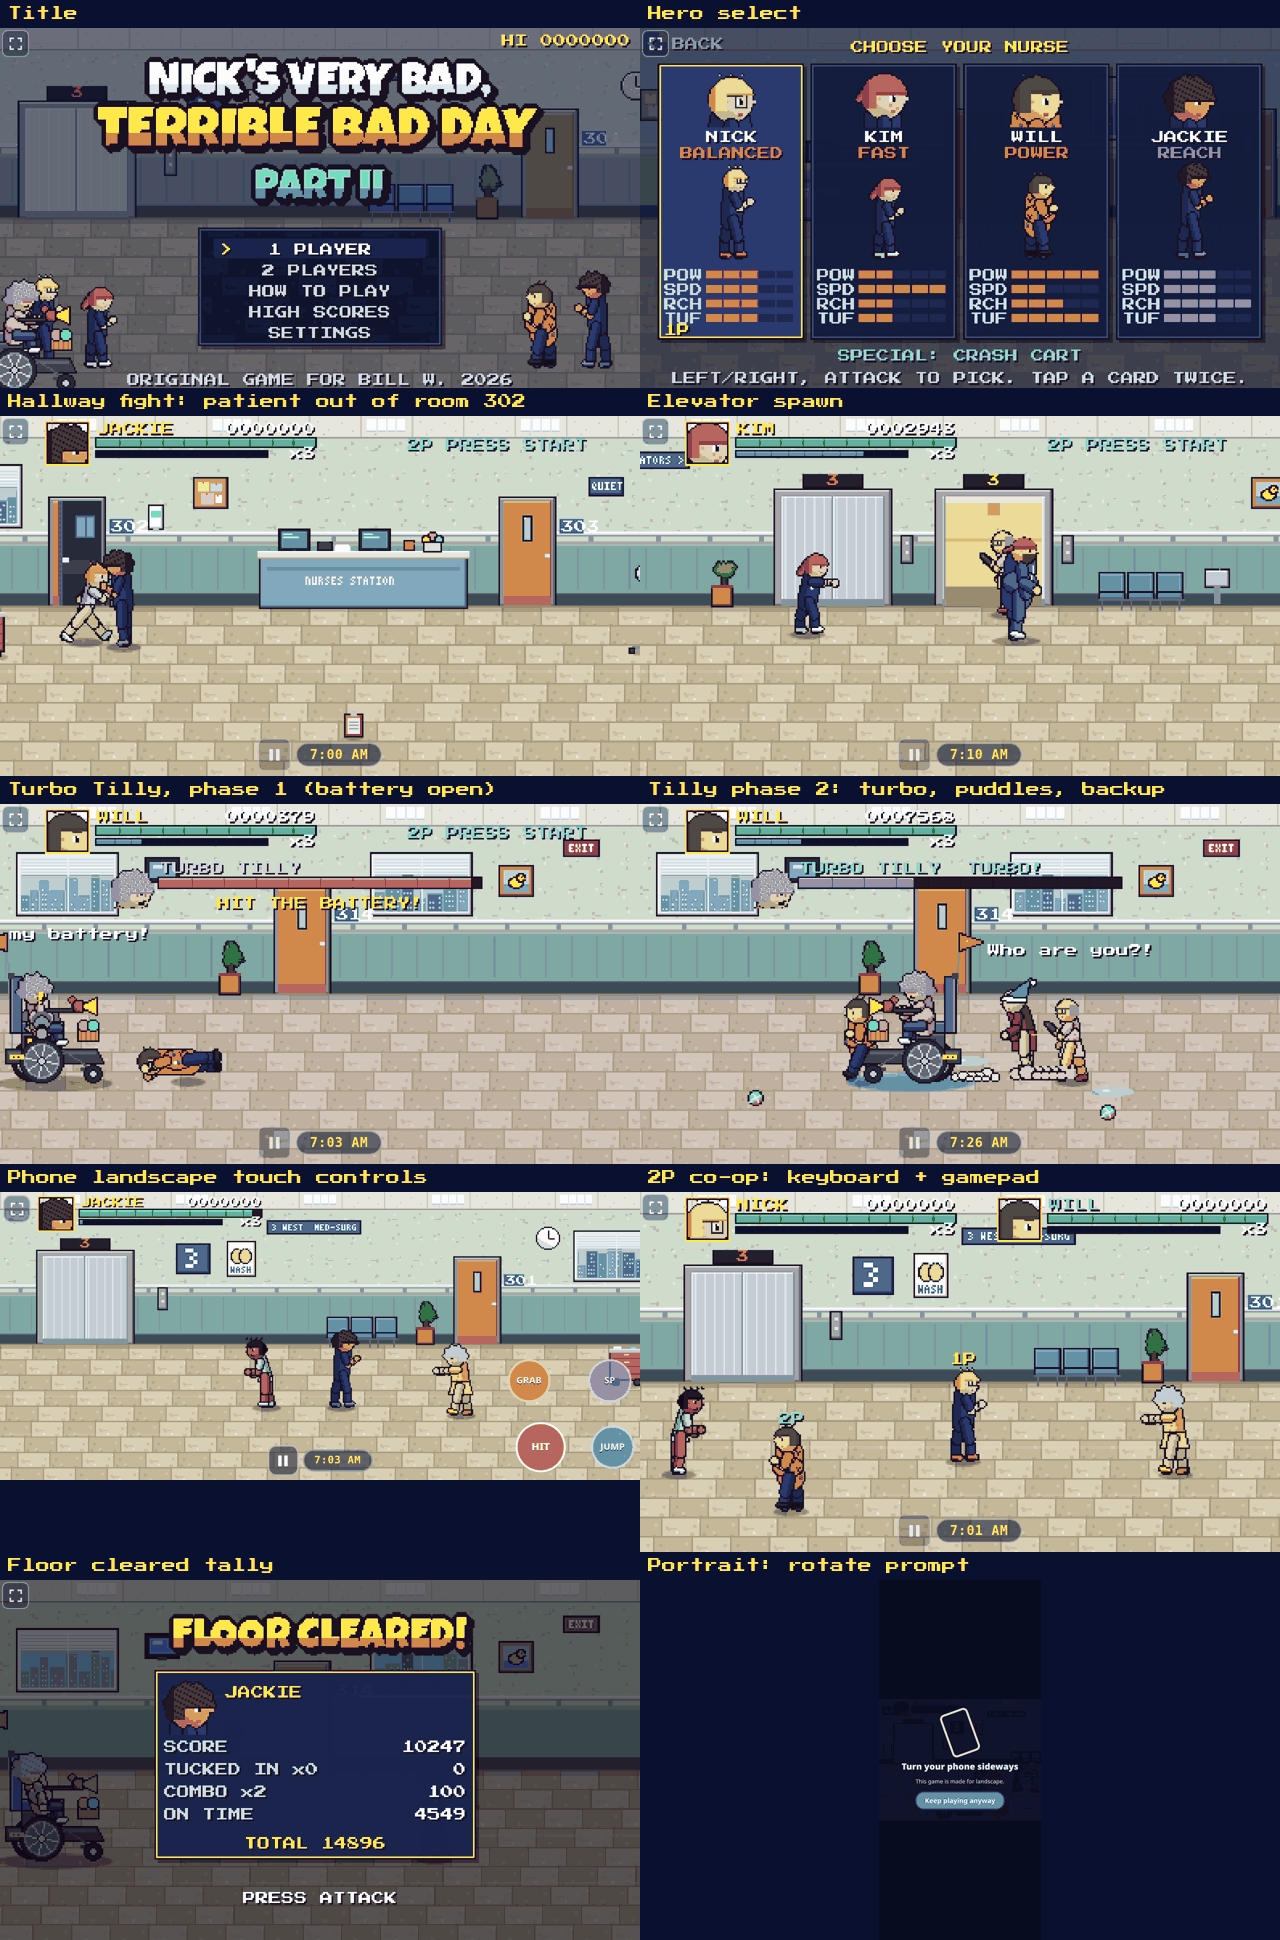
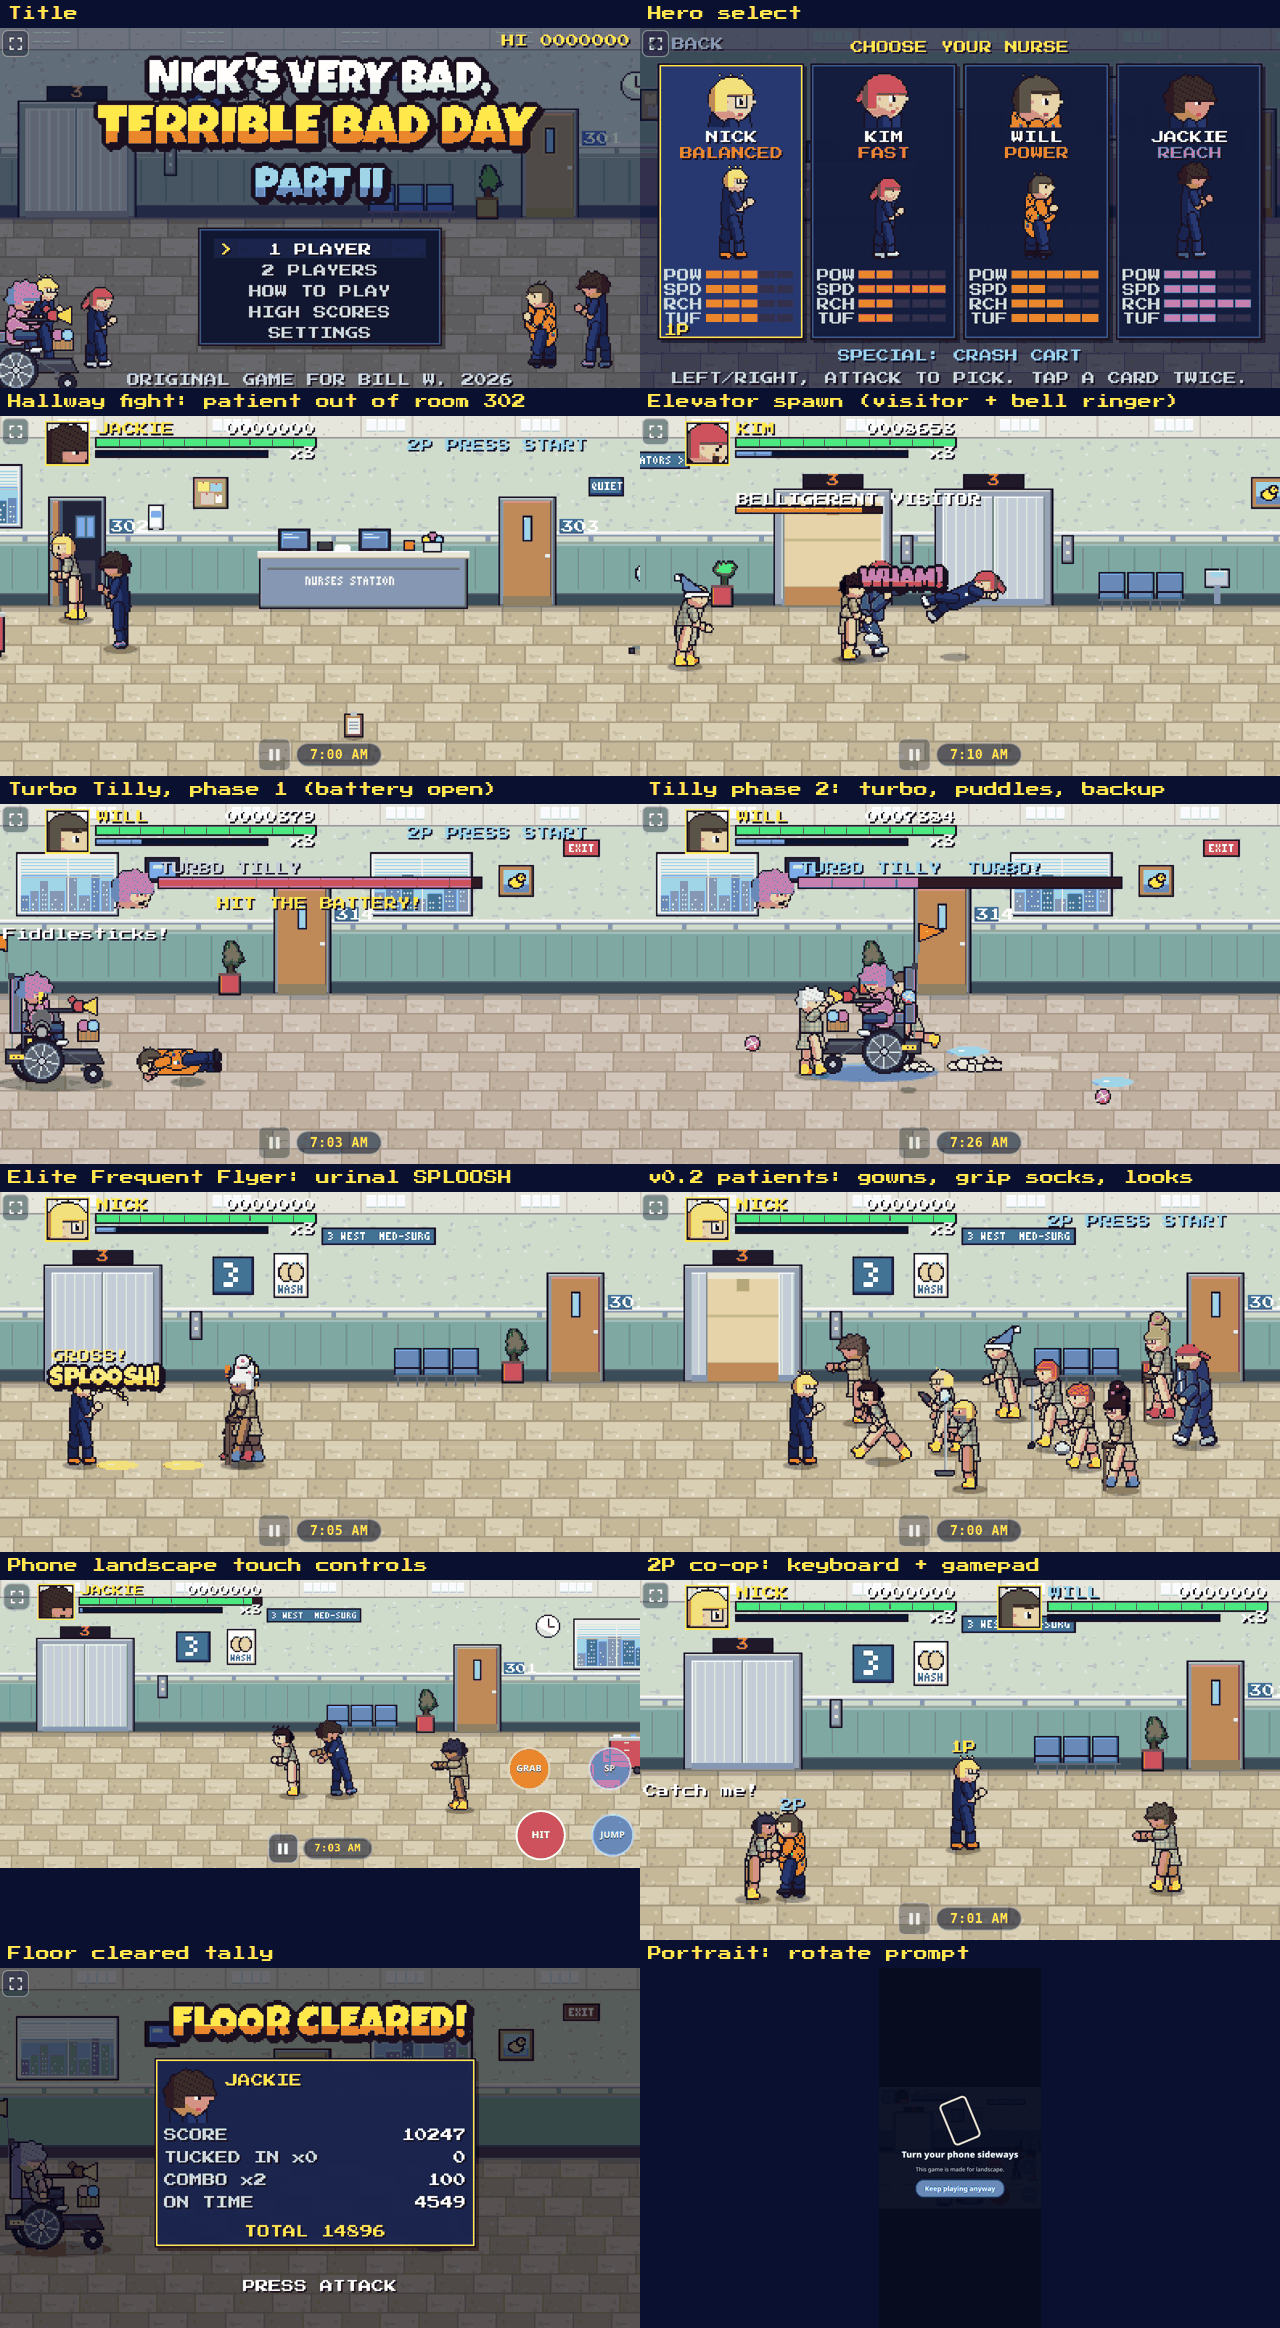
v0.2 docs: CHANGELOG/AGENTS for gowns, grip socks, new patients and drops; patient test; before/after art sheet, new screenshots and GIF

diff --git a/AGENTS.md b/AGENTS.md
@@ -8,7 +8,7 @@ A 1990s arcade beat 'em up in the spirit of Golden Axe and the TMNT and Simpsons
 their way through hospital floors full of comedic patients. Plain HTML5 Canvas 2D plus ES modules. No build step
 and no dependencies at runtime. Live on GitHub Pages: https://unclebill-spec.github.io/nicks-bad-day-2/
 
-## Current state (2026-10-03)
+## Current state (2026-10-03, v0.2)
 - **Level 1 "Floor 3: Med-Surg" is fully playable** from the title screen through to the tally and the "Floor 4: Radiology" teaser.
   The level is 3560 px wide with 6 camera-lock zones: 5 wave zones, then the boss dayroom.
 - **4 heroes:**
@@ -18,11 +18,15 @@ and no dependencies at runtime. Live on GitHub Pages: https://unclebill-spec.git
   - Jackie: reach, Clipboard Spin, strong jump and dash.
 - **Moves:** combos with a finisher, jump and jump kick, run (double-tap or Shift/RB) and dash attack, back attack (Attack+Jump),
   auto-grab, then knee or throw (throws hit other patients), a special that costs 8 HP, and the Code Blue super when the meter is full.
-- **Patients:** Wanderer (hugs), Call-light Spammer (throws remotes), Escape Artist (slaps and runs), IV-pole Swinger, Sundowner (charges)
-  and Belligerent Visitor (armored brute), plus 2 palette swaps. Each has its own KO line and falls asleep or gets tucked in.
+- **Patients:** all wear checked hospital gowns (pale green or faded olive) with yellow grip socks, and get random hair and skin at runtime.
+  - Types: Wanderer (hugs), Call-light Spammer (throws remotes and pudding), Escape Artist (slaps and runs), IV-pole Swinger (sweeps),
+    Sundowner (charges), Crutch Crusader (crutch poke), and Bell Ringer (call bell on a cord, whip that dizzies).
+  - **Elite "Frequent Flyer":** beehive with curlers, red or blue socks, a cane up close, and from range syringe darts or lobbed urinals that splash and leave a slippery puddle.
+  - The Belligerent Visitor is an armored brute in a tracksuit; he's a visitor, so no gown.
+  - Each has its own KO line and falls asleep or gets tucked in. Crutch, bell and elite patients may drop their weapon.
 - **Spawns** come in waves with an on-screen cap, from hallway room doors (301–314), from the elevators (B, C), and from both screen edges.
-- **Pickups:** coffee, pizza, candy (speed), a Double Shift token (+1 life) and score items.
-- **Weapons:** clipboard, bedpan, mop, IV pole, and an extinguisher that sprays and stuns.
+- **Pickups:** energy drink (small heal), fruit snacks (big heal), candy (speed), the ZYNN tin (+1 life; parody label, never the real logo), and score items (donut, gold star).
+- **Weapons:** clipboard, bedpan, mop, IV pole, crutch, call bell (dizzies), cane, and an extinguisher that sprays and stuns.
 - **Breakables:** med cart, linen bin, vending machine and IV stand.
 - **Boss: Turbo Tilly** in an electric wheelchair.
   - Phase 1: horn honk shock ring (dizzies), rev and charge. After a charge her battery panel opens as the weak point; she takes only 30% damage otherwise.
@@ -59,12 +63,17 @@ python3 tests/moves.py      # every hero: jump, kick, special cost, super, run/d
 python3 tests/pad.py        # mocked gamepad: menus, select, move, attack, pause; 2P keyboard + pad
 python3 tests/touch.py      # emulated Pixel phone landscape: taps, floating joystick, buttons, pause, rotate prompt
 python3 tests/flow.py       # boss defeat -> tally -> teaser -> title; continue; game over -> high scores
+python3 tests/patients.py   # all patient types + random looks, elite syringe/urinal throws, splash + puddle, KO drops, new pickups
+python3 tests/before_after.py <old art dir> docs/art_before_after.png   # art comparison sheet
 python3 tests/shots.py "autostart=1&bot=1&god=1" 240 full 1280 720 6   # whole level with the bot
 python3 tests/video.py      # webm clips for the GIF (ffmpeg converts)
 ```
 Screenshots go to `tests/out/`, which is git-ignored. `docs/screenshots.png` and `docs/gameplay.gif` are committed copies.
 
 ## Rebuilding art and audio
+- Patient looks: `tools/chars.py` has `GOWN`, `GOWN_OLIVE`, `SOCK`, `SOCK_ELITE` and `HAIRS`. `make_art.py` writes them to `atlas.json`
+  (`chars.<patient>.pal` and `palettes`), and the game swaps those exact colors per spawn (a pool of 6 looks per type).
+  If you add a patient, give it `**gown` and `**socks`, and add it to `PATIENTS` in `make_art.py`.
 - `python3 tools/make_art.py` rewrites `art/*.png`, `art/atlas.json`, the font and the icons.
   - `tools/rig.py` is the side-view pixel puppet rig. `tools/chars.py` holds the heroes and patients, `tools/boss.py` Tilly, and `tools/props.py` the hospital art.
   - It uses vendored copies of Master Builder's Gravewake `sprite_writer`/`pixel_writer` and brileta-sprites (plants, via node).
@@ -102,7 +111,8 @@ Screenshots go to `tests/out/`, which is git-ignored. `docs/screenshots.png` and
 - Tested on emulated phones (Chromium, Pixel-size landscape) and desktop Chromium with a mocked gamepad. It has not been tested on real iPhone or Android hardware yet.
 - The heroes' skin tones and hair styles were guessed from Bill's short descriptions (they may be real coworkers). They are easy to change in `tools/chars.py` `bodies()`, followed by `python3 tools/make_art.py`.
 - Only Level 1 exists. The teaser points to Floor 4: Radiology.
-- Balance is first-pass: Tilly has 420 HP and patient damage scales by difficulty in `DIFF`.
+- Balance is first-pass: Tilly has 420 HP and patient damage scales by difficulty in `DIFF`. The elite waves make zones 2–4 noticeably harder.
+- The gown check pattern is drawn on a fixed pixel grid, so it doesn't move with the body. It shimmers very slightly during animation.
 - Online co-op is not implemented. That was optional in the spec.
 
 ## Next steps

diff --git a/CHANGELOG.md b/CHANGELOG.md
@@ -2,6 +2,26 @@
 
 All notable changes to Nick's Very Bad, Terrible Bad Day Part II. Dates are America/New_York.
 
+## 2026-10-03: v0.2 "Gown Check" (Bill's art + gameplay notes)
+- **Patients:**
+  - Every patient now wears a traditional checked hospital gown, in pale green or faded olive, with yellow grip socks.
+  - Standard patients get random hair colors and skin tones. Sheets are recolored at runtime by `tintSheet` in `src/gfx.js` and `lookFor` in `src/enemy.js`.
+  - The old palette-swap sheets `wanderer2` and `escape2` are removed.
+- **New weapon patients:**
+  - **Crutch Crusader** pokes with a crutch.
+  - **Bell Ringer** whips a call bell on its cord, which dizzies. IV-pole Swingers stay.
+  - Both drop their weapon 50% of the time, and nurses can pick it up and use it: new weapons **crutch**, **call bell** and **cane**.
+- **Elite "Frequent Flyer":**
+  - Beehive hairdo with curlers, red or blue grip socks, and 1 armor.
+  - Canes you up close. From range it throws syringe darts, or lobs full urinals that splash ("SPLOOSH!") and leave a slippery yellow puddle.
+  - It's cartoonish, with no gore.
+- **Nurse drops:**
+  - The **energy drink** (small heal) and **fruit snacks** (big heal) replace coffee and pizza.
+  - A round **ZYNN** tin replaces the Double Shift token for +1 life. It's a parody label with no real logo.
+- **Level 1 waves** now mix in crutch, bell and elite patients, and add an extra wave in the elevator bank and in zone 4. Tilly's backup calls bring crutch and bell patients.
+- **New sprites:** splash FX, comic words SPLOOSH!, DING! and POKE!, syringe, urinal, and the new weapon pickups. Service worker cache bumped to `nbd2-app-v2`.
+- **Tests:** new `tests/patients.py` (random looks, elite throws, splash and puddle, KO drops, new pickups) and `tests/before_after.py` (the art comparison in `docs/art_before_after.png`).
+
 ## 2026-10-03: v0.1 "First Shift" (Level 1 playable)
 - **Published** to GitHub Pages at https://unclebill-spec.github.io/nicks-bad-day-2/
 - **Game runtime** (`src/`):
